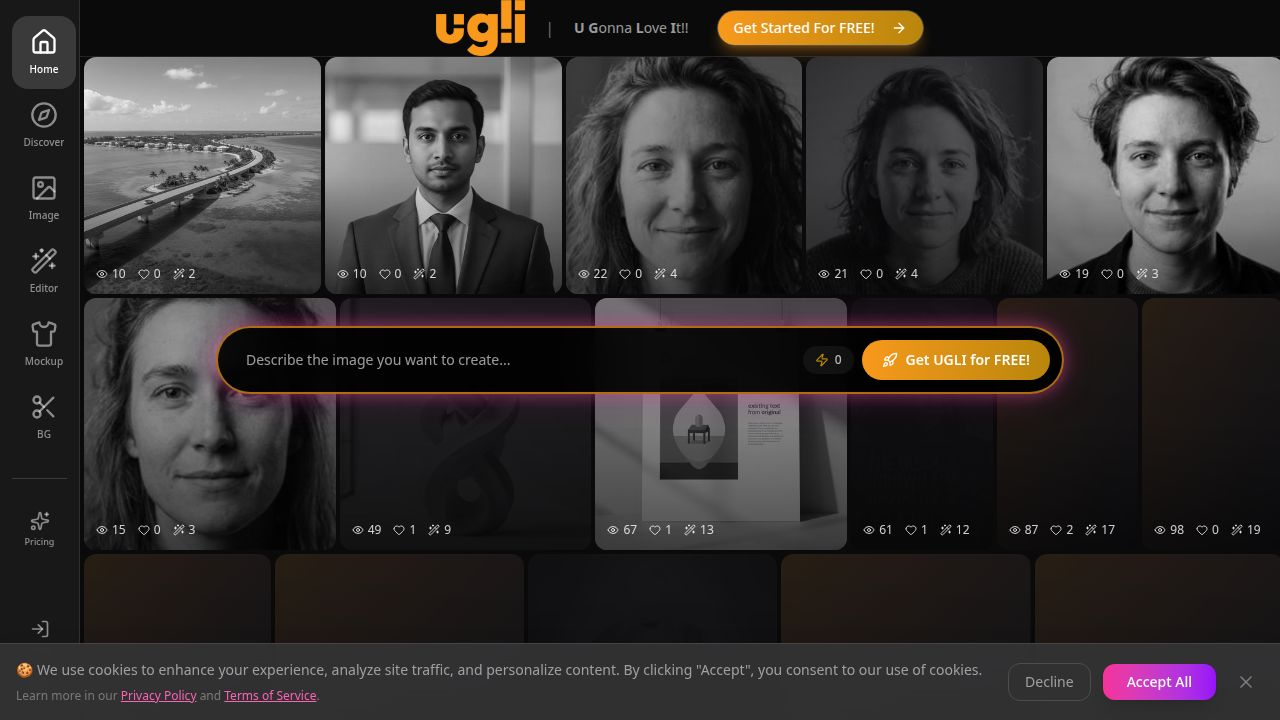
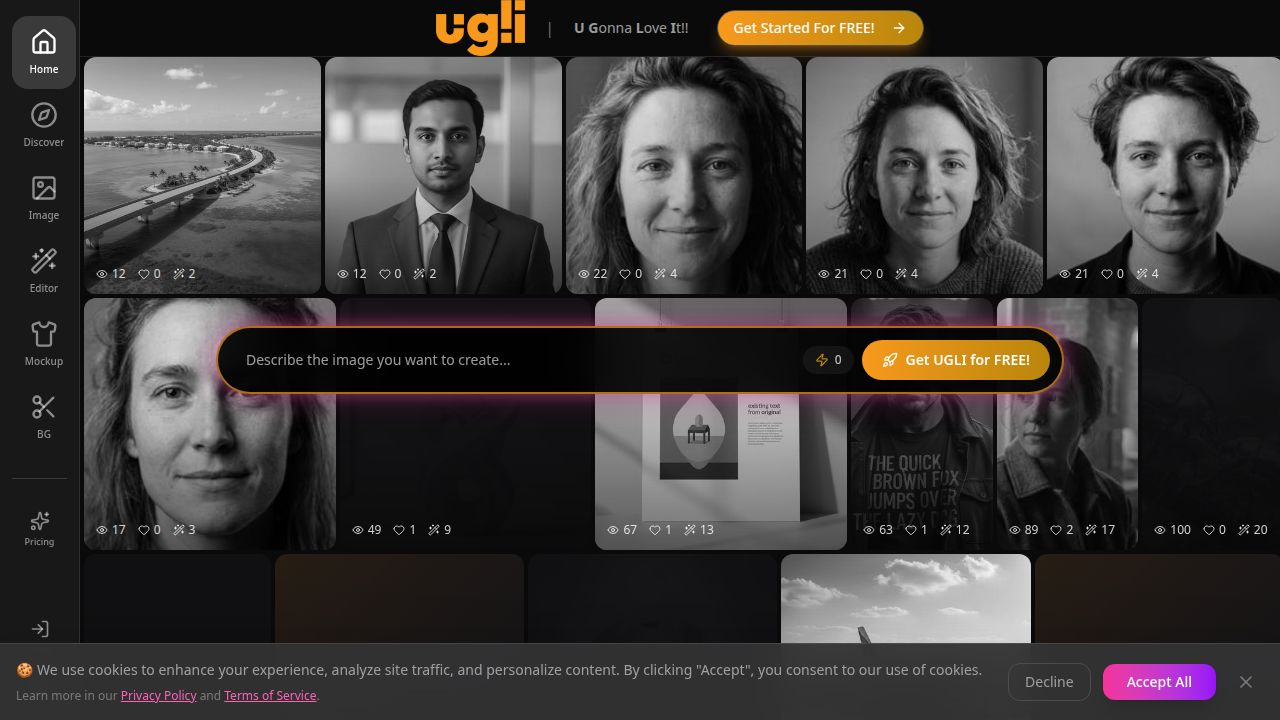
Enhance image discovery with follow, edit, and style options
Add follow/unfollow functionality, an edit button, and display style details in the image discovery pop-up modal. Update API methods and state management for follow actions. Implement image transfer to the editor.

Replit-Commit-Author: Agent
Replit-Commit-Session-Id: 68cbbf61-78b9-481b-8117-73ee629066f6
Replit-Commit-Checkpoint-Type: full_checkpoint
Replit-Commit-Event-Id: bae767c0-77e5-4c57-a17d-407a93910f38
Replit-Commit-Screenshot-Url: https://storage.googleapis.com/screenshot-production-us-central1/ec05a3ac-7bc7-4cb8-b62c-d0bb2c465a3d/68cbbf61-78b9-481b-8117-73ee629066f6/A9a6riS
Replit-Helium-Checkpoint-Created: true

diff --git a/client/src/pages/discover.tsx b/client/src/pages/discover.tsx
@@ -16,8 +16,11 @@ import {
   UserPlus,
   UserCheck,
   Download,
-  ExternalLink
+  ExternalLink,
+  Pencil
 } from "lucide-react";
+import { useLocation } from "wouter";
+import { transferImageToTool } from "@/lib/image-transfer";
 import { Input } from "@/components/ui/input";
 import { Button } from "@/components/ui/button";
 import { Popover, PopoverContent, PopoverTrigger } from "@/components/ui/popover";
@@ -67,6 +70,7 @@ interface InspirationItem {
   category: string;
   aspectRatio: "1:1" | "9:16" | "16:9" | "4:5" | "3:4";
   prompt: string;
+  style?: string;
   isLiked?: boolean;
   isFollowing?: boolean;
   isGalleryImage?: boolean;
@@ -2072,13 +2076,19 @@ export default function Discover() {
   const [searchQuery, setSearchQuery] = useState("");
   const [selectedItem, setSelectedItem] = useState<InspirationItem | null>(null);
   const [promptCopied, setPromptCopied] = useState(false);
+  const [isFollowingPopup, setIsFollowingPopup] = useState(false);
+  const [followLoading, setFollowLoading] = useState(false);
   const loadMoreRef = useRef<HTMLDivElement>(null);
   const { toast } = useToast();
+  const { isAuthenticated } = useAuth();
+  const { openLoginPopup } = useLoginPopup();
+  const [, setLocation] = useLocation();
   const ITEMS_PER_LOAD = 12;
 
   const openItemPopup = (item: InspirationItem) => {
     setSelectedItem(item);
     setPromptCopied(false);
+    setIsFollowingPopup(item.isFollowing || false);
   };
 
   const closeItemPopup = () => {
@@ -2111,6 +2121,56 @@ export default function Discover() {
     } catch {
       toast({ title: "Download failed", description: "Please try again", variant: "destructive" });
     }
+  };
+
+  const handleFollowToggle = async () => {
+    if (!selectedItem || !selectedItem.creatorId) return;
+    if (!isAuthenticated) {
+      openLoginPopup();
+      return;
+    }
+    setFollowLoading(true);
+    try {
+      const newFollowState = !isFollowingPopup;
+      if (isFollowingPopup) {
+        await socialApi.unfollowUser(selectedItem.creatorId);
+        toast({ title: "Unfollowed", description: `You unfollowed @${selectedItem.creator}` });
+      } else {
+        await socialApi.followUser(selectedItem.creatorId);
+        toast({ title: "Following", description: `You are now following @${selectedItem.creator}` });
+      }
+      setIsFollowingPopup(newFollowState);
+      
+      // Update the selected item and sync with displayed items
+      const updatedItem = { ...selectedItem, isFollowing: newFollowState };
+      setSelectedItem(updatedItem);
+      
+      // Update displayed items to keep in sync
+      setDisplayedItems(prev => prev.map(item => 
+        item.id === selectedItem.id ? { ...item, isFollowing: newFollowState } : item
+      ));
+      
+      // Update community images to persist state
+      setCommunityImages(prev => prev.map(item => 
+        item.id === selectedItem.id ? { ...item, isFollowing: newFollowState } : item
+      ));
+    } catch {
+      toast({ title: "Error", description: "Could not update follow status", variant: "destructive" });
+    } finally {
+      setFollowLoading(false);
+    }
+  };
+
+  const handleEditImage = () => {
+    if (!selectedItem) return;
+    const route = transferImageToTool({
+      id: String(selectedItem.id),
+      src: selectedItem.image,
+      name: selectedItem.prompt,
+      aspectRatio: selectedItem.aspectRatio,
+    }, "image-editor");
+    closeItemPopup();
+    setLocation(route);
   };
 
   useEffect(() => {
@@ -2337,20 +2397,51 @@ export default function Discover() {
                 </div>
 
                 <div className="flex-1 overflow-y-auto p-4 md:p-5 space-y-4">
-                  {/* Creator Info */}
-                  <div className="flex items-center gap-3">
-                    <div className="w-10 h-10 rounded-full bg-gradient-to-tr from-[#f8991c] to-[#B8860B] flex items-center justify-center text-white font-bold text-sm">
-                      {selectedItem.creator.charAt(0).toUpperCase()}
-                    </div>
-                    <div>
-                      <div className="flex items-center gap-1.5">
-                        <span className="font-semibold text-foreground">@{selectedItem.creator}</span>
-                        {selectedItem.verified && <BadgeCheck className="h-4 w-4 text-[#B8860B]" />}
+                  {/* Creator Info with Follow Button */}
+                  <div className="flex items-center justify-between">
+                    <div className="flex items-center gap-3">
+                      <div className="w-10 h-10 rounded-full bg-gradient-to-tr from-[#f8991c] to-[#B8860B] flex items-center justify-center text-white font-bold text-sm">
+                        {selectedItem.creator.charAt(0).toUpperCase()}
                       </div>
-                      {selectedItem.createdAt && (
-                        <span className="text-xs text-muted-foreground">{formatTimeAgo(new Date(selectedItem.createdAt))}</span>
-                      )}
+                      <div>
+                        <div className="flex items-center gap-1.5">
+                          <span className="font-semibold text-foreground">@{selectedItem.creator}</span>
+                          {selectedItem.verified && <BadgeCheck className="h-4 w-4 text-[#B8860B]" />}
+                        </div>
+                        {selectedItem.createdAt && (
+                          <span className="text-xs text-muted-foreground">{formatTimeAgo(new Date(selectedItem.createdAt))}</span>
+                        )}
+                      </div>
                     </div>
+                    {selectedItem.creatorId && (
+                      <Button
+                        size="sm"
+                        variant={isFollowingPopup ? "outline" : "default"}
+                        onClick={handleFollowToggle}
+                        disabled={followLoading}
+                        className={cn(
+                          "gap-1.5 transition-all",
+                          isFollowingPopup 
+                            ? "bg-transparent border-border hover:bg-muted" 
+                            : "bg-[#f8991c] hover:bg-[#e88a17] text-white"
+                        )}
+                        data-testid="button-follow-popup"
+                      >
+                        {followLoading ? (
+                          <Loader2 className="h-3.5 w-3.5 animate-spin" />
+                        ) : isFollowingPopup ? (
+                          <>
+                            <UserCheck className="h-3.5 w-3.5" />
+                            Following
+                          </>
+                        ) : (
+                          <>
+                            <UserPlus className="h-3.5 w-3.5" />
+                            Follow
+                          </>
+                        )}
+                      </Button>
+                    )}
                   </div>
 
                   {/* Prompt */}
@@ -2410,6 +2501,12 @@ export default function Discover() {
                       <span className="text-xs text-muted-foreground">Aspect Ratio</span>
                       <span className="text-xs font-medium text-foreground">{selectedItem.aspectRatio}</span>
                     </div>
+                    {selectedItem.style && (
+                      <div className="flex justify-between py-1.5">
+                        <span className="text-xs text-muted-foreground">Style</span>
+                        <span className="text-xs font-medium text-foreground">{selectedItem.style}</span>
+                      </div>
+                    )}
                   </div>
 
                   {/* Actions */}
@@ -2432,6 +2529,17 @@ export default function Discover() {
                       Download
                     </Button>
                   </div>
+
+                  {/* Edit Image Button */}
+                  <Button 
+                    variant="outline" 
+                    onClick={handleEditImage}
+                    className="w-full gap-2"
+                    data-testid="button-edit-image-popup"
+                  >
+                    <Pencil className="h-4 w-4" />
+                    Edit Image
+                  </Button>
 
                   {/* Share link for gallery images */}
                   {selectedItem.isGalleryImage && (
